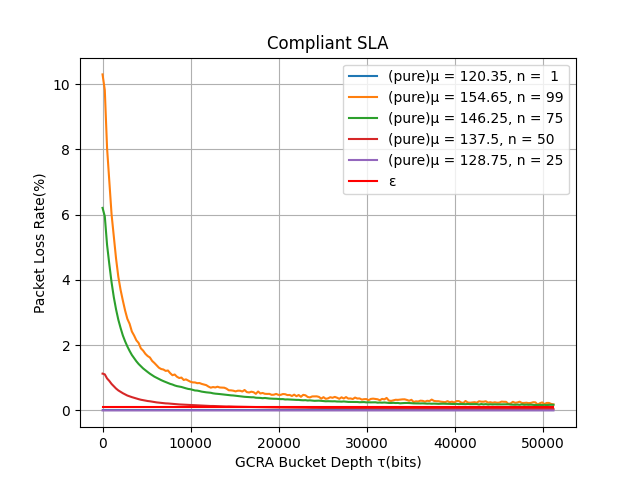
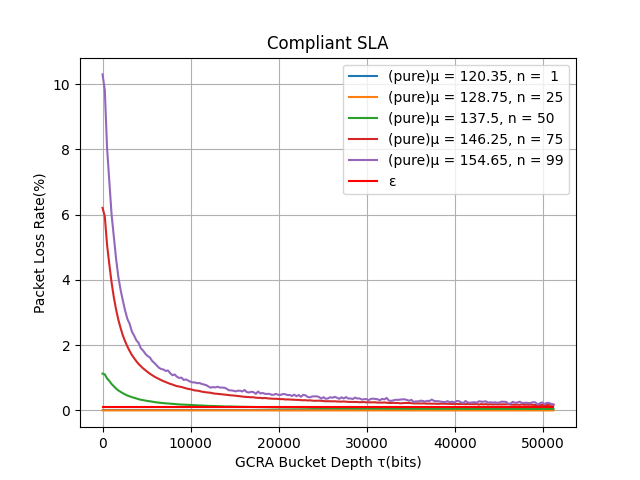
update uniform_different_noncompliant_number chart

Changed region(s): [[0.1562, 0.1562, 0.875, 0.875], [0.7188, 0.1875, 0.875, 0.3438], [0.1562, 0.7812, 0.1875, 0.8125]]

diff --git a/Simulation/python/compliant_and_non_compliant_all.py b/Simulation/python/compliant_and_non_compliant_all.py
@@ -27,6 +27,7 @@ if(name == 'uniform_different_noncompliant_number'):
 
     # pure
     keys = list(set(dataframe['noncompliant_tenant_number'].tolist()))
+    keys.sort()
     for key in keys:
         real_noncompliant_mean = (noncompliant_mean*key+ mean*(tenant_number-key))/tenant_number
         noncompliant_loss_pure = dataframe[dataframe['noncompliant_tenant_number'] == key][['noncompliant_loss_pure']]
@@ -65,7 +66,7 @@ if(name == 'uniform_different_noncompliant_number'):
         noncompliant_loss_all = dataframe[dataframe['noncompliant_tenant_number'] == key][['noncompliant_loss_all']]
         if(len(noncompliant_loss_all)!=0):
             tau = dataframe[dataframe['noncompliant_tenant_number'] == key]['tau'].tolist()
-            plt.plot(tau[:], noncompliant_loss_all[:], linestyle='-', label='n = {:2d}'.format(key), alpha = 1)
+            plt.plot(tau[:], noncompliant_loss_all[:], linestyle='-', label='n$_n$ = {:2d}'.format(key), alpha = 1)
     plt.plot(tau_[:], [0.1 for i in tau_][:], linestyle='-', color = 'red', label='ε')
     # plt.title('Packet Loss with different τ and μ ({}) Non-compliant'.format(name), fontsize=7.5)
     plt.title('Non-compliant SLA')
@@ -76,12 +77,13 @@ if(name == 'uniform_different_noncompliant_number'):
     plt.savefig(IMAGE_PATH.format(name,'all', 'noncompliant'))
     plt.cla()
 
+    keys.reverse()
     for key in keys:
         real_noncompliant_mean = (noncompliant_mean*key+ mean*(tenant_number-key))/tenant_number
         compliant_loss_all = dataframe[dataframe['noncompliant_tenant_number'] == key][['compliant_loss_all']]
         if(len(compliant_loss_all)!=0):
             tau = dataframe[dataframe['noncompliant_tenant_number'] == key]['tau'].tolist()
-            plt.plot(tau[:], compliant_loss_all[:], linestyle='-', label='n = {:2d}'.format(key), alpha = 1)
+            plt.plot(tau[:], compliant_loss_all[:], linestyle='-', label='n$_c$ = {:2d}'.format(100-key), alpha = 1)
     plt.plot(tau_[:], [0.1 for i in tau_][:], linestyle='-', color = 'red', label='ε')
     # plt.title('Packet Loss with different τ and μ ({}) Compliant'.format(name), fontsize=7.5)
     plt.title('Compliant SLA')
